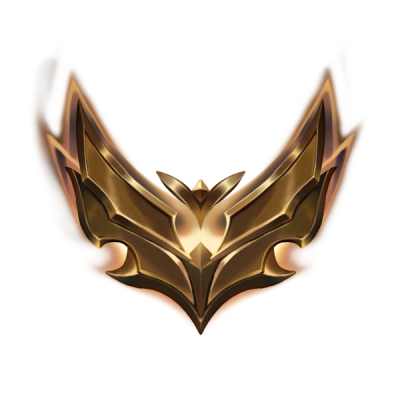
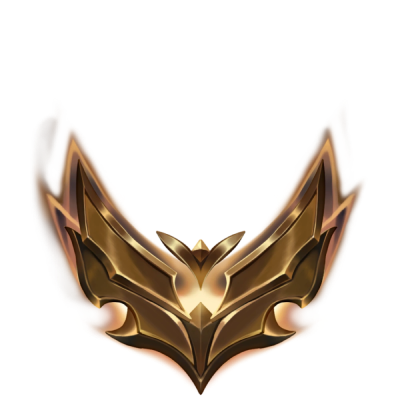
CSS edit and images updated

diff --git a/frontend/src/components/boosting/league-of-legends/CurrentRank.vue b/frontend/src/components/boosting/league-of-legends/CurrentRank.vue
@@ -37,12 +37,12 @@ const currentDivisionName = computed(() => {
   .current-rank-card(:style="`border: solid 2px ${currentLeagueOfLegendsOrder.colors.borderColor}`")
     .current-rank-title(:style="{color: currentLeagueOfLegendsOrder.colors.dominantColor, backgroundColor: currentLeagueOfLegendsOrder.colors.shadowColor}") {{ title }}
     .select-division
-      v-icon(icon="mdi-menu-left" @click="currentLeagueOfLegendsOrder.decrementDivision(divisionLimit)" :color="currentLeagueOfLegendsOrder.colors.dominantColor")
+      v-icon(size='large' icon="mdi-menu-left" @click="currentLeagueOfLegendsOrder.decrementDivision(divisionLimit)" :color="currentLeagueOfLegendsOrder.colors.dominantColor")
       .division-name
         .rank-icon-box
           v-img.rank-icon(:src="divisionUrls['../../../assets/ranks/league-of-legends/' + currentLeagueOfLegendsOrder.colors.name + '.png']")
         .name(:style="{color: currentLeagueOfLegendsOrder.colors.dominantColor}") {{ currentDivisionName }} {{ currentLeagueOfLegendsOrder.milestone }}
-      v-icon(icon="mdi-menu-right" @click="currentLeagueOfLegendsOrder.incrementDivision(divisionLimit)" :color="currentLeagueOfLegendsOrder.colors.dominantColor")
+      v-icon(size='large' icon="mdi-menu-right" @click="currentLeagueOfLegendsOrder.incrementDivision(divisionLimit)" :color="currentLeagueOfLegendsOrder.colors.dominantColor")
     v-divider.divider()
     .colors
       v-btn.color(
@@ -84,11 +84,18 @@ const currentDivisionName = computed(() => {
   justify-content: space-between;
   align-items: center;
 }
+.division-name {
+  margin-top: -2rem;
+}
 .rank-icon-box {
   height: 15.625rem;
   width: 15.625rem;
 }
+.rank-icon {
+  padding-bottom: -5rem;
+}
 .name {
+  padding-top: 0.5rem;
   font-size: 32px;
   font-weight: bold;
   text-align: center;

diff --git a/frontend/src/components/boosting/league-of-legends/Division.vue b/frontend/src/components/boosting/league-of-legends/Division.vue
@@ -85,12 +85,12 @@ async function createOrder() {
     .desired-rank-card(:style="{ border: 'solid 2px ' + desiredOrder.borderColor }")
       .desired-rank-title(:style="{color: desiredOrder.dominantColor, backgroundColor: desiredOrder.shadowColor}") DESIRED RANK
       .select-division
-        v-icon(icon="mdi-menu-left" @click="decrement()" :color="currentLeagueOfLegendsOrder.dominantColor")
+        v-icon(size='large' icon="mdi-menu-left" @click="decrement()" :color="currentLeagueOfLegendsOrder.dominantColor")
         .division-name
           .rank-icon-box
             v-img(:src="divisionUrls['../../../assets/ranks/league-of-legends/' + desiredOrder.name + '.png']" width="16rem" )
           .name(:style="{color: desiredOrder.dominantColor}") {{ desiredOrder.name.toUpperCase() }} {{ desiredMilestone }}
-        v-icon(icon="mdi-menu-right" @click="increment()" :color="currentLeagueOfLegendsOrder.dominantColor")
+        v-icon(size='large' icon="mdi-menu-right" @click="increment()" :color="currentLeagueOfLegendsOrder.dominantColor")
       v-divider.divider()
       .colors
         v-btn.color(
@@ -150,11 +150,18 @@ async function createOrder() {
   justify-content: space-between;
   align-items: center;
 }
+.division-name {
+  margin-top: -2rem;
+}
 .rank-icon-box {
   height: 15.625rem;
   width: 15.625rem;
 }
+.rank-icon {
+  padding-bottom: -5rem;
+}
 .name {
+  padding-top: 0.5rem;
   font-size: 32px;
   font-weight: bold;
   text-align: center;
